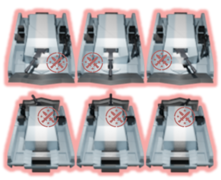
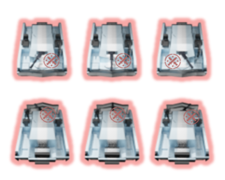
//火箭更新

diff --git a/src/gameobj/Rocket.java b/src/gameobj/Rocket.java
@@ -14,6 +14,12 @@ public class Rocket extends Actor{
     private boolean isempty;
     private Delay reloaddelay;
 
+    private BufferedImage empty_ES1;
+    private BufferedImage empty_ES2;
+    private BufferedImage empty_ES3;
+    private BufferedImage empty_ES4;
+    private BufferedImage empty_ES5;
+
     public Rocket(float x,float y,boolean isEnemy){
         super(x,y,50,50,x,y,75,90);
         this.image= ImageController.getInstance().tryGet("/AARocket.png");
@@ -24,6 +30,11 @@ public class Rocket extends Actor{
         this.image_S3=ImageController.getInstance().tryGet("/AARocket_S3.png");
         this.image_S4=ImageController.getInstance().tryGet("/AARocket_S4.png");
         this.image_S5=ImageController.getInstance().tryGet("/AARocket_S5.png");
+        this.empty_ES1=ImageController.getInstance().tryGet("/AARocket_ES1.png");
+        this.empty_ES2=ImageController.getInstance().tryGet("/AARocket_ES2.png");
+        this.empty_ES3=ImageController.getInstance().tryGet("/AARocket_ES3.png");
+        this.empty_ES4=ImageController.getInstance().tryGet("/AARocket_ES4.png");
+        this.empty_ES5=ImageController.getInstance().tryGet("/AARocket_ES5.png");
         reloaddelay=new Delay(120);
         hpLimit=250;//血量上限
         hp=hpLimit; //初始血量
@@ -172,7 +183,7 @@ public class Rocket extends Actor{
                     switch (skillName) {
                         case ATTACKUP:
                             if(isempty){ //要換圖，下面都要
-                                g.drawImage(emptyBullet,(int) this.painter().left(), (int) this.painter().top(), (int) this.painter().right(), (int) this.painter().bottom(),
+                                g.drawImage(empty_ES1,(int) this.painter().left(), (int) this.painter().top(), (int) this.painter().right(), (int) this.painter().bottom(),
                                         0, 0,
                                         140, 180, null);
                             }else{
@@ -182,9 +193,8 @@ public class Rocket extends Actor{
                             }
                             break;
                         case DEFUP:
-
                             if(isempty){
-                                g.drawImage(emptyBullet,(int) this.painter().left(), (int) this.painter().top(), (int) this.painter().right(), (int) this.painter().bottom(),
+                                g.drawImage(empty_ES2,(int) this.painter().left(), (int) this.painter().top(), (int) this.painter().right(), (int) this.painter().bottom(),
                                         0, 0,
                                         140, 180, null);
                             }else{
@@ -195,7 +205,7 @@ public class Rocket extends Actor{
                             break;
                         case MOVESPEEDUP:
                             if(isempty){
-                                g.drawImage(emptyBullet,(int) this.painter().left(), (int) this.painter().top(), (int) this.painter().right(), (int) this.painter().bottom(),
+                                g.drawImage(empty_ES3,(int) this.painter().left(), (int) this.painter().top(), (int) this.painter().right(), (int) this.painter().bottom(),
                                         0, 0,
                                         140, 180, null);
                             }else{
@@ -206,7 +216,7 @@ public class Rocket extends Actor{
                             break;
                         case HPUP:
                             if(isempty){
-                                g.drawImage(emptyBullet,(int) this.painter().left(), (int) this.painter().top(), (int) this.painter().right(), (int) this.painter().bottom(),
+                                g.drawImage(empty_ES4,(int) this.painter().left(), (int) this.painter().top(), (int) this.painter().right(), (int) this.painter().bottom(),
                                         0, 0,
                                         140, 180, null);
                             }else{
@@ -219,17 +229,17 @@ public class Rocket extends Actor{
                 }
 
             }else if(isReinforcement){ //要換圖
-                g.drawImage(image_S5, (int) this.painter().left(), (int) this.painter().top(), (int) this.painter().right(), (int) this.painter().bottom(),
-                        0, 0,
-                        140, 180, null);
                 if(isempty){
-                    g.drawImage(emptyBullet,(int) this.painter().left(), (int) this.painter().top(), (int) this.painter().right(), (int) this.painter().bottom(),
+                    g.drawImage(empty_ES5,(int) this.painter().left(), (int) this.painter().top(), (int) this.painter().right(), (int) this.painter().bottom(),
+                            0, 0,
+                            140, 180, null);
+                }else{
+                    g.drawImage(image_S5, (int) this.painter().left(), (int) this.painter().top(), (int) this.painter().right(), (int) this.painter().bottom(),
                             0, 0,
                             140, 180, null);
                 }
             }
             else { //平常時候
-
             }
                 if(isempty){
                     g.drawImage(emptyBullet,(int) this.painter().left(), (int) this.painter().top(), (int) this.painter().right(), (int) this.painter().bottom(),
